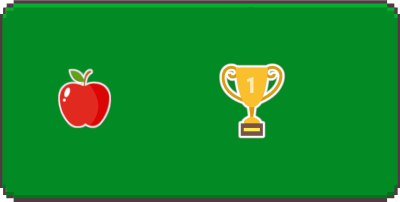
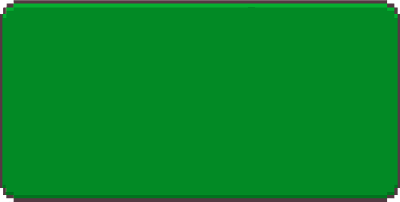
Changed gameOver rendering + cleanup code

Changed region(s): [[0.54, 0.297, 0.72, 0.7129], [0.12, 0.3267, 0.3, 0.6535]]

diff --git a/src/main/java/Snake/View/GameView.java b/src/main/java/Snake/View/GameView.java
@@ -1,9 +1,5 @@
 package Snake.View;
 
-import java.io.FileInputStream;
-import java.io.FileNotFoundException;
-import java.nio.file.Path;
-import java.nio.file.Paths;
 import java.util.ArrayList;
 import java.util.List;
 
@@ -13,19 +9,13 @@ import Snake.Model.Game;
 import Snake.Model.Snake;
 import Snake.Model.SnakeCell;
 import Snake.Utils.Constants;
-import javafx.animation.KeyFrame;
-import javafx.animation.Timeline;
-import javafx.event.ActionEvent;
 import javafx.scene.canvas.Canvas;
 import javafx.scene.canvas.GraphicsContext;
-import javafx.scene.image.Image;
 import javafx.scene.paint.Color;
-import javafx.scene.text.Font;
 
 // View
 public class GameView {
 
-    private Timeline timeline;
     private double lineWidth = 0d; // Lines between grid cells
     private double cellBorderWidth = 1d; // Border around grid cells
     private int borderWidth = (800 - (Constants.COLUMNCOUNT * Constants.CELLSIZE)) / 2;
@@ -36,36 +26,6 @@ public class GameView {
     // Used for optimizing draw function, to only draw the changed cells, not redraw the whole grid
     private Snake previousDrawnSnake;
     private Food previousApple;
-
-    private Image gameOverImage;
-
-    private Image getImage() {
-        try {
-            Path projectPath = Paths.get("").toAbsolutePath();
-            FileInputStream input;
-            input = new FileInputStream(
-                    projectPath.toString() + "/src/main/resources/Snake/img/gameOver.png");
-            return (new Image(input));
-        } catch (FileNotFoundException e) {
-            System.out.println("File not found");
-        }
-        return null;
-    }
-
-    private void drawGameOver(GraphicsContext context, Canvas canvas, Game game) {
-        context.drawImage(gameOverImage, (canvas.getWidth() - gameOverImage.getWidth()) / 2,
-                (canvas.getHeight() - gameOverImage.getHeight()) / 2, gameOverImage.getWidth(),
-                gameOverImage.getHeight());
-
-        context.setFont(new Font("Leelawadee UI Bold", 40));
-        context.setFill(Color.WHITE);
-        context.fillText(String.valueOf(game.getScore()), (canvas.getWidth() - gameOverImage.getWidth()) / 2 + 125,
-                (canvas.getHeight() - gameOverImage.getHeight()) / 2 + 115);
-        context.fillText(String.valueOf(game.getHighScore()),
-                (canvas.getWidth() - gameOverImage.getWidth()) / 2 + 290,
-                (canvas.getHeight() - gameOverImage.getHeight()) / 2 + 115);
-
-    }
 
     public void drawBackground(Canvas canvas, Game game) {
         GraphicsContext context = canvas.getGraphicsContext2D();
@@ -157,27 +117,10 @@ public class GameView {
     public void drawFrame(Canvas canvas, Game game) {
         GraphicsContext context = canvas.getGraphicsContext2D();
 
-        if (game.getGameOver()) {
-            if (gameOverImage == null) {
-                gameOverImage = getImage();
-                drawGameOver(context, canvas, game);
-            }
-        } else {
+        if (!game.getGameOver()) {
             context.setStroke(Color.WHITE);
             context.setLineWidth(cellBorderWidth);
             drawGame(context, canvas, game);
         }
-    }
-
-    // Redraw entire canvas
-    public void drawCoroutine(Canvas canvas, Game game) {
-
-        timeline = new Timeline(new KeyFrame(Constants.FRAMETIME, (ActionEvent event) -> {
-            GraphicsContext context = canvas.getGraphicsContext2D();
-            drawGame(context, canvas, game);
-        }));
-
-        timeline.setCycleCount(Timeline.INDEFINITE);
-        timeline.play();
     }
 }

diff --git a/src/main/java/Snake/Controller/FXMLController.java b/src/main/java/Snake/Controller/FXMLController.java
@@ -1,6 +1,7 @@
 package Snake.Controller;
 
 import java.io.IOException;
+import java.util.Date;
 import java.util.concurrent.Executors;
 import java.util.concurrent.ScheduledExecutorService;
 import java.util.concurrent.TimeUnit;
@@ -13,13 +14,15 @@ import Snake.View.GameView;
 import javafx.fxml.FXML;
 import javafx.scene.canvas.Canvas;
 import javafx.scene.input.KeyEvent;
+import javafx.scene.layout.Pane;
 import javafx.scene.text.Text;
 
 // Controller
-public class FXMLController implements Controller {
+public class FXMLController implements ControllerListener {
 
     private Game game;
     private GameView gameView;
+    private Date gameOverTimestamp;
 
     @FXML
     private Canvas canvas;
@@ -29,6 +32,13 @@ public class FXMLController implements Controller {
 
     @FXML
     private Text highscoreText;
+
+    @FXML
+    private Pane gameOverPane;
+    @FXML
+    private Text gameOverScore;
+    @FXML
+    private Text gameOverHighscore;
 
     public FXMLController() {
         this.game = new Game(this);
@@ -58,7 +68,9 @@ public class FXMLController implements Controller {
     @FXML
     private void keyListener(KeyEvent key) {
         if (game.getGameOver()) {
-            restartGame();
+            // Cooldown for when to restart game, this is because one could press a key right after death, and consequently skip game over screen
+            if (getTimeBetweenGameOver() > 800)
+                restartGame();
             return;
         }
         switch (key.getCode()) {
@@ -91,10 +103,12 @@ public class FXMLController implements Controller {
         }
     }
 
+    @Override
     public void setScoreText(int score) {
         scoreText.setText(String.valueOf(score));
     }
 
+    @Override
     public void setHighscoreText(int score) {
         if (score > Integer.parseInt(highscoreText.getText()))
             highscoreText.setText(String.valueOf(score));
@@ -105,12 +119,34 @@ public class FXMLController implements Controller {
         App.setRoot("Highscore");
     }
 
+    @Override
+    public void setGameOver() {
+        gameOverPane.setVisible(true);
+        gameOverScore.setText(scoreText.getText());
+        gameOverHighscore.setText(highscoreText.getText());
+        gameOverTimestamp = new Date();
+    }
+
+    @Override
+    public void resetGameOver() {
+        gameOverPane.setVisible(false);
+    }
+
     private void restartGame() {
         game = new Game(this);
         this.gameView = new GameView();
         gameView.drawBackground(canvas, game);
         gameView.drawFrame(canvas, game);
         setScoreText(game.getScore());
+        resetGameOver();
+    }
+
+    private int getTimeBetweenGameOver() {
+        if (gameOverTimestamp == null) {
+            return 0;
+        }
+        Date now = new Date();
+        return (int) (now.getTime() - gameOverTimestamp.getTime());
     }
 
 }

diff --git a/src/main/java/Snake/Model/Game.java b/src/main/java/Snake/Model/Game.java
@@ -4,6 +4,7 @@ import java.util.ArrayList;
 import java.util.List;
 import java.util.stream.Collectors;
 
+import Snake.Controller.ControllerListener;
 import Snake.Controller.FXMLController;
 import Snake.Data.Highscore;
 import Snake.Utils.Constants;
@@ -17,7 +18,7 @@ public class Game {
     private boolean gameOver;
     private Food food;
     private boolean paused = false;
-    private FXMLController controller;
+    private ControllerListener controller;
     private Highscore highscore;
 
     // Save a copy of allPositions to avoid creating a new list every time
@@ -78,6 +79,7 @@ public class Game {
         } else {
             gameOver = true;
             highscore.addScore(score);
+            controller.setGameOver();
             System.out.println("DEAD");
             snake.setHeadColor(Color.web("#ff0000"));
             snake.setBodyColor(Color.web("#fb5d39"));

diff --git a/src/main/java/Snake/Controller/HighscoreController.java b/src/main/java/Snake/Controller/HighscoreController.java
@@ -16,7 +16,7 @@ import javafx.scene.control.ListView;
 import javafx.scene.layout.HBox;
 import javafx.scene.layout.Priority;
 
-public class HighscoreController implements Controller {
+public class HighscoreController {
 
     @FXML
     private ListView<ListCell> listView;

diff --git a/src/main/java/Snake/Controller/ControllerListener.java b/src/main/java/Snake/Controller/ControllerListener.java
@@ -1,0 +1,12 @@
+package Snake.Controller;
+
+public interface ControllerListener {
+
+    public void setScoreText(int score);
+
+    public void setHighscoreText(int score);
+
+    public void setGameOver();
+
+    public void resetGameOver();
+}
